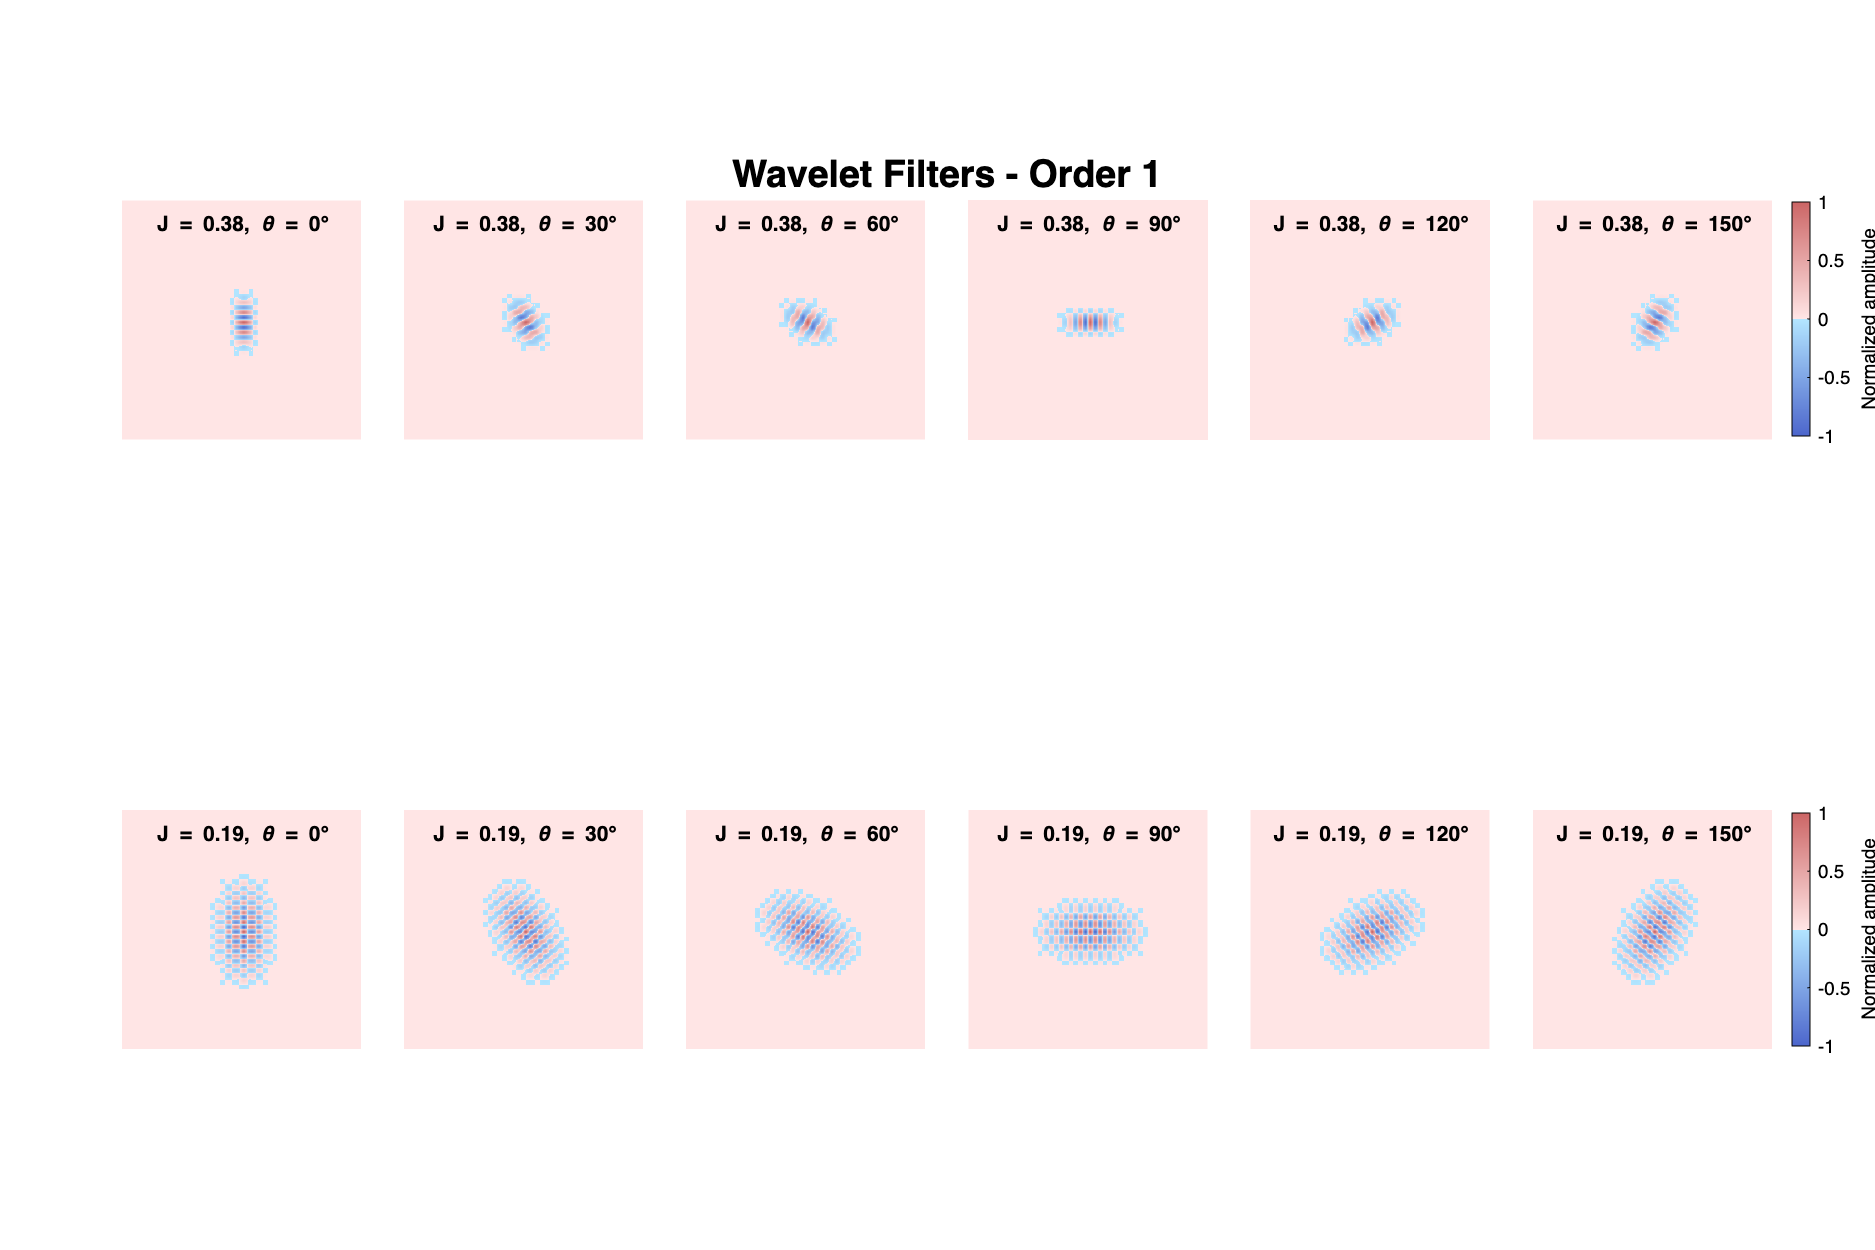
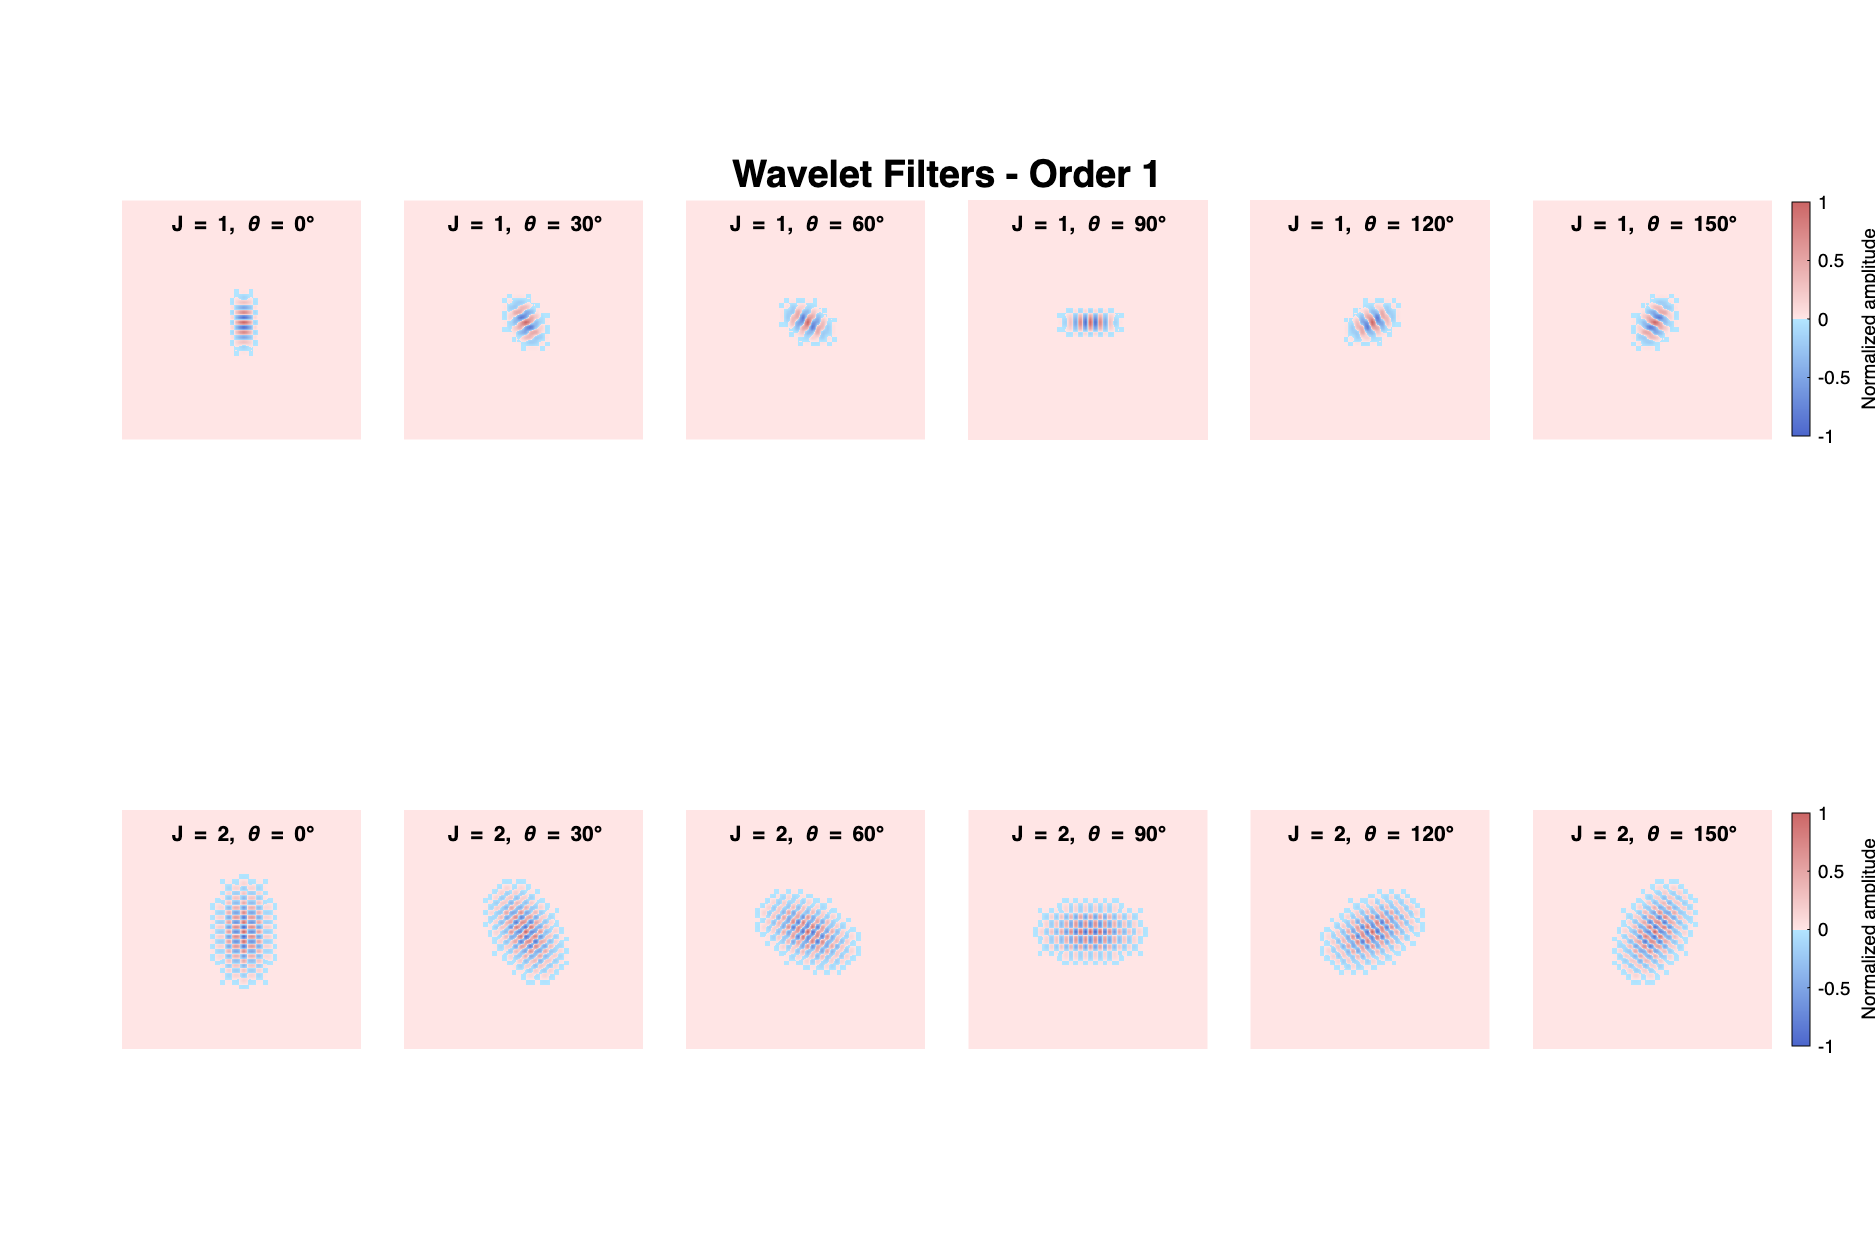
Fix: "Minor Updates"

diff --git a/Visualize_Wavelet_Filters.m b/Visualize_Wavelet_Filters.m
@@ -319,9 +319,10 @@ function meta = deriveWaveletMetadata(orderIdx, waveletVolume, filterParams, con
     end
 
     if isempty(scaleLabels)
-        scaleLabels = arrayfun(@(v) sprintf('%d', v), numScales:-1:1, 'UniformOutput', false);
+        scaleLabels = arrayfun(@(idx) sprintf('%d', idx), 1:numScales, 'UniformOutput', false);
     else
-        scaleLabels = arrayfun(@(v) sprintf('%.2f', v), scaleLabels, 'UniformOutput', false);
+        % Map supplied scale metadata to ordinal labels (1=highest frequency)
+        scaleLabels = arrayfun(@(idx) sprintf('%d', idx), 1:numScales, 'UniformOutput', false);
     end
 
     meta = struct('numAngles', numAngles, 'numScales', numScales, ...
